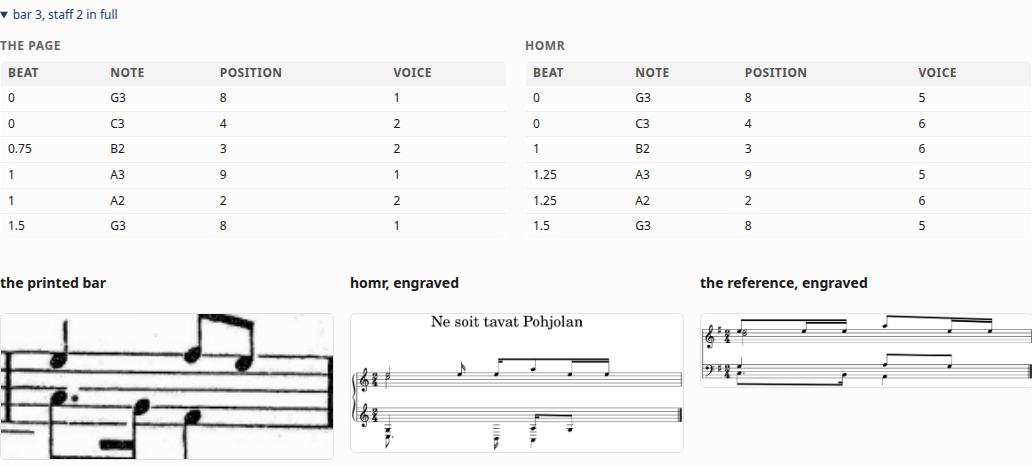
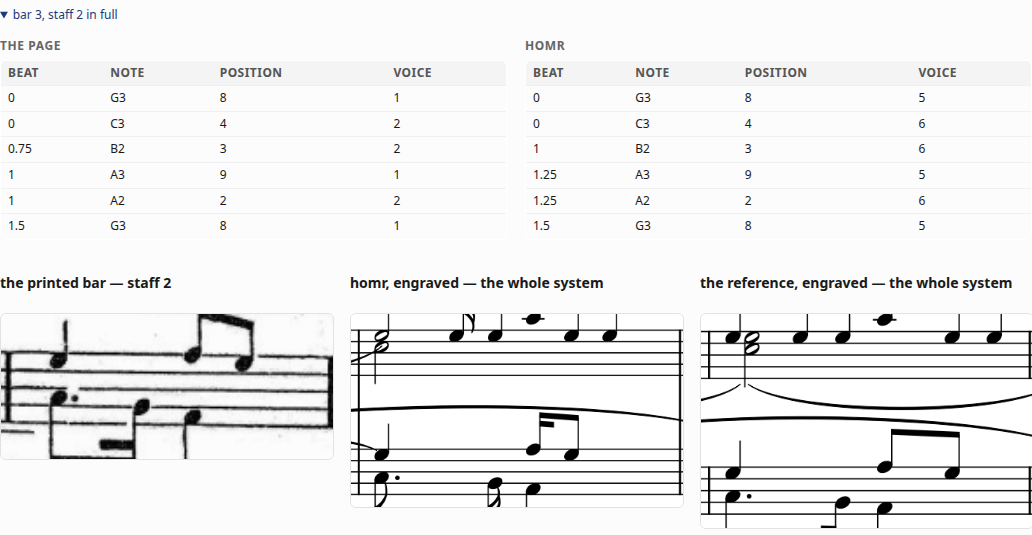
Cut the bar out of the engraving instead of engraving it again
The two engraved panels under a fault were fresh per-bar engravings, and
they looked like different music from the system at the top of the page: a
bar drawn on its own gets a title, a fresh layout, and a clef and key it does
not carry in context.

MuseScore will simply say where it drew each bar. `-o <file>.mpos` writes a
box per measure beside the render, so the bar can be cut out of the picture
the score already makes. The coordinates are absolute page units with the
origin at the page corner, and pixels = units * dpi / MPOS_UNITS_PER_INCH
converts them. That constant is measured rather than derived — two different
scores at 220 and 150 dpi, the crop landing on the barlines at both edges
each time — and being a rate per inch it does not assume the paper size. The
page is rendered untrimmed, because -T crops to the ink and moves the very
origin the boxes are measured from.

It is also less work: one render and one .mpos per side per case, rather
than an engraving per fault.

A measure box covers the whole system, so those two show the bar across
every staff while the printed crop shows the staff the fault is on, and the
labels now say so. Cropping the printed one to the system as well was tried
and is worse on real scans: choral staves are spaced apart to leave room for
the words, so on hanget-soi the crop came out three times the height of the
engravings beside it and half of it was white paper and a line of lyrics.
[…]

diff --git a/fixturecheck/bars.py b/fixturecheck/bars.py
@@ -213,7 +213,14 @@ def bar_box(geo: dict, staff: int, index: int, expected_bars: int) -> dict | Non
         return None
     left, right = lines[index - 1], lines[index]
     row = staves[staff - 1]
-    # A little air, so the crop is a bar of music and not a slice through it.
+    # **The staff the fault is on, not the whole system.** Taking the union of
+    # the staves was tried and is worse on real scans: printed choral staves are
+    # spaced apart to leave room for the words between them, so on `hanget-soi`
+    # the system spans 60% of the band and the crop came out three times the
+    # height of the engravings beside it, half of it white paper and a line of
+    # lyrics. The engraved crops show the system because MuseScore reports one
+    # box per measure and that is what it gives; the labels say which is which,
+    # and the tables above have already isolated the staff.
     pad = 0.35 * (row["bottom"] - row["top"])
     return {"left": max(0.0, left - 0.004), "right": min(1.0, right + 0.004),
             "top": max(0.0, row["top"] - pad), "bottom": min(1.0, row["bottom"] + pad)}
@@ -232,6 +239,13 @@ def crop(image: Path, box: dict, into: Path) -> Path | None:
                                 int(box["right"] * width), int(box["bottom"] * height)))
             if not cut.width or not cut.height:
                 return None
+            if cut.mode in ("RGBA", "LA", "P"):
+                # MuseScore writes transparent paper. Left alone, the crop takes
+                # the page's colour rather than the white the pictures beside it
+                # are on, and the same bar looks like two different prints.
+                cut = cut.convert("RGBA")
+                paper = Image.new("RGBA", cut.size, (255, 255, 255, 255))
+                cut = Image.alpha_composite(paper, cut).convert("RGB")
             into.parent.mkdir(parents=True, exist_ok=True)
             cut.save(into)
     except Exception:                                        # noqa: BLE001
@@ -239,16 +253,79 @@ def crop(image: Path, box: dict, into: Path) -> Path | None:
     return into
 
 
-def engrave_bar(source: Path, bar: str, scratch: Path, into: Path,
-                cli: str, dpi: int = 220) -> Path | None:
-    """One bar of one score, drawn."""
-    fragment = one_bar(source, bar, scratch)
-    if fragment is None:
+# --- where the bar is in an engraving ------------------------------------
+
+#: `.mpos` coordinates are absolute page units with the origin at the page
+#: corner, and this converts them to pixels at a given resolution:
+#:
+#:     pixels = units * dpi / MPOS_UNITS_PER_INCH
+#:
+#: Measured rather than derived, and checked before it was relied on: two
+#: different scores at 220 and 150 dpi, with the crop landing on the barlines at
+#: both edges each time (`test_fixturecheck_bars`). Being a rate per inch rather
+#: than a page width, it does not assume the paper size.
+MPOS_UNITS_PER_INCH = 2649.2
+
+
+def engraved(source: Path, cli: str, into: Path, dpi: int = 220
+             ) -> tuple[Path, list[dict]] | None:
+    """Draw a score once, and ask MuseScore where each bar of it landed.
+
+    Two outputs from two calls, and the second is the point: `-o <file>.mpos`
+    writes a box per measure, so a bar can be **cut out of the picture the score
+    already makes** instead of being engraved again on its own. Re-engraving one
+    bar gives it a title, a fresh layout and a clef and key it does not have in
+    context, so the detail looked like different music from the system above it.
+
+    The page is rendered **untrimmed**: `-T` crops to the ink and moves the
+    origin, which is exactly what the measure boxes are measured from.
+    """
+    into.parent.mkdir(parents=True, exist_ok=True)
+    positions = into.with_suffix(".mpos")
+    for target in (into, positions):
+        run = subprocess.run([cli, "-r", str(dpi), str(source), "-o", str(target)],
+                             capture_output=True, text=True, timeout=600)
+        if run.returncode != 0:
+            return None
+    page = into.with_name(f"{into.stem}-1.png")
+    if page.exists():
+        page.replace(into)
+    if not into.exists() or not positions.exists():
         return None
-    run = subprocess.run([cli, "-T", "10", "-r", str(dpi), str(fragment),
-                          "-o", str(into)],
-                         capture_output=True, text=True, timeout=600)
-    numbered = into.with_name(f"{into.stem}-1.png")
-    if numbered.exists():
-        numbered.replace(into)
-    return into if run.returncode == 0 and into.exists() else None
+    try:
+        boxes = [
+            {"x": float(e.get("x", 0)), "y": float(e.get("y", 0)),
+             "sx": float(e.get("sx", 0)), "sy": float(e.get("sy", 0)),
+             "page": int(e.get("page", 0))}
+            for e in ET.parse(positions).getroot().findall("elements/element")]
+    except (ET.ParseError, ValueError):
+        return None
+    return into, boxes
+
+
+def engraved_box(boxes: list[dict], numbers: list[str], bar: str,
+                 size: tuple[int, int], dpi: int = 220) -> dict | None:
+    """The box around one bar of an engraving, as fractions of the picture.
+
+    Refused when the boxes and the score disagree about how many bars there are,
+    when the bar is on a page other than the first, or when the box falls
+    outside the picture — each of which would put a crop of the wrong music
+    under a finding, which is the one thing this must not do.
+    """
+    if len(boxes) != len(numbers) or bar not in numbers:
+        return None
+    box = boxes[numbers.index(bar)]
+    if box["page"] != 0:
+        return None
+    width, height = size
+    scale = dpi / MPOS_UNITS_PER_INCH
+    # A little air, so the crop is a bar of music and not a slice through it.
+    pad_x, pad_y = 8, 0.09 * box["sy"] * scale
+    left = box["x"] * scale - pad_x
+    right = (box["x"] + box["sx"]) * scale + pad_x
+    top = box["y"] * scale - pad_y
+    bottom = (box["y"] + box["sy"]) * scale + pad_y
+    if right > width + pad_x or bottom > height + pad_y or right <= left:
+        return None
+    return {"left": max(0.0, left / width), "right": min(1.0, right / width),
+            "top": max(0.0, top / height), "bottom": min(1.0, bottom / height)}

diff --git a/fixturecheck/report.py b/fixturecheck/report.py
@@ -196,21 +196,61 @@ def _bar_pictures(case, parsed: Path, row) -> str:
 
     printed, why = _printed_crop(case, row, stem)
     if printed:
-        parts.append(f"<div><h4>the printed bar</h4><img src='{printed}' "
+        parts.append(f"<div><h4>the printed bar &mdash; staff {row.staff}</h4><img src='{printed}' "
                      f"alt='bar {html.escape(row.bar)} as printed'></div>")
     else:
-        parts.append(f"<div><h4>the printed bar</h4><p class='lead'>{html.escape(why)}"
+        parts.append(f"<div><h4>the printed bar &mdash; staff {row.staff}</h4><p class='lead'>{html.escape(why)}"
                      f"</p></div>")
 
-    for label, source, suffix in (("homr, engraved", parsed, "homr"),
-                                  ("the reference, engraved", case.reference, "ref")):
-        drawn = bars.engrave_bar(source, row.bar,
-                                 cases.CACHE / "bars" / f"{stem}-{suffix}.musicxml",
-                                 OUT / f"{stem}-{suffix}.png", cli)
-        if drawn:
-            parts.append(f"<div><h4>{label}</h4><img src='{drawn.name}' "
-                         f"alt='{label}'></div>")
+    for label, source, suffix in (("homr, engraved &mdash; the whole system", parsed, "homr"),
+                                  ("the reference, engraved &mdash; the whole system", case.reference, "ref")):
+        cut, why = _engraved_crop(case, source, row, suffix, stem, cli)
+        if cut:
+            parts.append(f"<div><h4>{label}</h4><img src='{cut}' alt='{label}'></div>")
+        else:
+            parts.append(f"<div><h4>{label}</h4><p class='lead'>"
+                         f"{html.escape(why)}</p></div>")
     return f"<div class='crops'>{''.join(parts)}</div>"
+
+
+#: One render of a score, kept for as long as the report is being written. Each
+#: side is drawn once per case rather than once per fault -- the bar is cut out
+#: of the picture, so the picture is the thing worth keeping.
+_ENGRAVED: dict = {}
+
+
+def _engraved_crop(case, source: Path, row, suffix: str, stem: str,
+                   cli: str) -> tuple[str, str]:
+    """One bar cut out of the score's own engraving, or why it is not shown.
+
+    Cut rather than drawn again. Engraving a single bar on its own gave it a
+    title, a fresh layout, and a clef and key it does not carry in context, so
+    the detail under a fault looked like different music from the system at the
+    top of the page. MuseScore will say where each bar landed (`.mpos`), which
+    makes cutting exact and needs no detection at all.
+    """
+    key = (case.name, suffix)
+    if key not in _ENGRAVED:
+        _ENGRAVED[key] = bars.engraved(source, cli,
+                                       OUT / f"{case.name}-{suffix}-page.png")
+    drawn = _ENGRAVED[key]
+    if not drawn:
+        return "", "MuseScore could not draw this score, so there is no bar to cut out."
+    page, boxes = drawn
+    numbers = bars.bars_in(source)
+    try:
+        from PIL import Image
+        with Image.open(page) as picture:
+            size = picture.size
+    except Exception:                                        # noqa: BLE001
+        return "", "the engraving could not be read."
+    box = bars.engraved_box(boxes, numbers, row.bar, size)
+    if not box:
+        return "", (f"MuseScore reported {len(boxes)} bar position(s) for "
+                    f"{len(numbers)} bar(s) here, so which box is this bar is a "
+                    f"guess.")
+    cut = bars.crop(page, box, OUT / f"{stem}-{suffix}.png")
+    return (cut.name, "") if cut else ("", "the crop could not be written.")
 
 
 def _printed_crop(case, row, stem: str) -> tuple[str, str]:

diff --git a/tests/test_fixturecheck_bars.py b/tests/test_fixturecheck_bars.py
@@ -120,6 +120,41 @@ def test_a_bar_or_staff_out_of_range_is_refused():
     assert bars.bar_box(geo, 1, 0, 3) is None
 
 
+def _mpos(count, width=3000.0, y=4650.79, sy=2637.07, page=0):
+    return [{"x": 1000.0 + i * width, "y": y, "sx": width, "sy": sy, "page": page}
+            for i in range(count)]
+
+
+def test_musescore_says_where_a_bar_is_and_it_is_cut_out_by_that():
+    """The mapping, pinned. Measured on two scores at 220 and 150 dpi, with the
+    crop landing on the barlines both times; see `bars.MPOS_UNITS_PER_INCH`."""
+    boxes = _mpos(3)
+    box = bars.engraved_box(boxes, ["1", "2", "3"], "2", (1819, 2572), dpi=220)
+    assert box is not None
+    scale = 220 / bars.MPOS_UNITS_PER_INCH
+    # The second bar starts at 4000 units and is 3000 wide.
+    assert abs(box["left"] * 1819 - (4000 * scale - 8)) < 1.0
+    assert abs(box["right"] * 1819 - (7000 * scale + 8)) < 1.0
+    assert 0.0 <= box["top"] < box["bottom"] <= 1.0
+
+
+def test_a_bar_count_that_disagrees_is_refused():
+    """MuseScore's boxes and the score have to be talking about the same bars."""
+    assert bars.engraved_box(_mpos(3), ["1", "2"], "2", (1819, 2572)) is None
+    assert bars.engraved_box(_mpos(2), ["1", "2"], "9", (1819, 2572)) is None
+
+
+def test_a_bar_on_a_later_page_is_refused():
+    """The render kept is page one; a box on page two would crop the wrong paper."""
+    assert bars.engraved_box(_mpos(2, page=1), ["1", "2"], "1", (1819, 2572)) is None
+
+
+def test_a_box_that_falls_outside_the_picture_is_refused():
+    """Which is what a wrong resolution or paper size looks like from here."""
+    wide = [{"x": 1000.0, "y": 100.0, "sx": 90000.0, "sy": 2637.07, "page": 0}]
+    assert bars.engraved_box(wide, ["1"], "1", (1819, 2572)) is None
+
+
 def test_a_row_knows_which_bar_it_is_about():
     """The report opens the bar named here; re-parsing `where` would be a second
     definition of the same fact."""

diff --git a/fixturecheck/README.md b/fixturecheck/README.md
@@ -71,13 +71,38 @@ agree — into that bar and staff in full:
   the question at a glance: the same six notes at the same positions, at beats
   `0 0 0.75 1 1 1.5` on the page and `0 0 1 1.25 1.25 1.5` in homr's reading. A
   duration read differently, and nothing lost.
-- **The same bar as pictures**: the printed crop, that bar engraved from homr's
-  parse, and that bar engraved from the reference. The printed one is the one
-  that matters, because on this repertoire it has settled every disagreement
-  that anybody checked.
+- **The same bar as pictures**: the printed crop, and that bar in homr's
+  engraving and in the reference's. The printed one is the one that matters,
+  because on this repertoire it has settled every disagreement that anybody
+  checked.
 
-Cutting a bar out of a MusicXML file is reliable. Finding it in a photograph is
-not: it needs the barlines, which come from **homr's own detection**
+**The engraved pair are cut out of the score's own render, not drawn again.**
+Engraving a single bar on its own gives it a title, a fresh layout, and a clef
+and key it does not carry in context, so the detail looked like different music
+from the system at the top of the page. MuseScore will simply say where each bar
+landed:
+
+    MuseScore3 -r 220 score.musicxml -o score.mpos    # a box per measure
+
+Those are absolute page units with the origin at the page corner, and
+`pixels = units * dpi / MPOS_UNITS_PER_INCH` converts them. The constant is
+measured rather than derived — two scores at 220 and 150 dpi, the crop landing
+on the barlines at both edges each time — and it is a rate per inch, so it does
+not assume the paper size. The page is rendered **untrimmed**, because `-T`
+crops to the ink and moves the origin the boxes are measured from. It is also
+fewer MuseScore calls: one render and one `.mpos` per side per case, rather than
+an engraving per fault.
+
+A measure box covers the whole system, so those two show the bar across every
+staff, while the printed crop shows the staff the fault is on. The labels say
+so. Cropping the printed one to the system too was tried and is worse on real
+scans: choral staves are spaced apart to leave room for the words, so the crop
+came out three times the height of the engravings beside it, half of it white
+paper.
+
+Cutting a bar out of a MusicXML file is reliable, and so is asking MuseScore
+where it drew one. Finding a bar in a photograph is not: it needs the barlines,
+which come from **homr's own detection**
 (`bars.geometry`, the same segmentation pass `scripts/homr_staves.py` uses in
 the choir app, cached per case). The lines have to cut the system into exactly
 the bars the reference says it holds, and a system's *opening* rule is normally

diff --git a/QUALITY.md b/QUALITY.md
@@ -6,7 +6,7 @@ Regenerated from `fixturecheck/series.jsonl` on every run — do not edit by han
 
 | harness | measured | homr | references | of everything judged, right | cases |
 | --- | --- | --- | --- | --- | --- |
-| `fixturecheck` | 2026-09-05T04:55:46+00:00 (one) | `71e6819` | `ff33f48a1bcaac77` | **95.8%** | 5 read |
+| `fixturecheck` | 2026-09-05T05:13:38+00:00 (one) | `71e6819` | `ff33f48a1bcaac77` | **95.8%** | 5 read |
 | `choir-bench` | _never_ | — | — | — | — |
 
 **[Look at the music](https://bazzite.taile8d16e.ts.net:8124/index.html)** — the printed band, homr's engraving and the reference, system by system. A count can say a system agrees on staves, bars and noteheads and still not say whether the parse is the music.
@@ -15,7 +15,7 @@ The two are **not averaged**. `fixturecheck` scores notes across the printed sys
 
 ## The gate
 
-**FAIL** — 3/5 perfect as of 2026-09-05T04:55:46+00:00; below 100%: `hanget-soi`, `sammon-ryosto`.
+**FAIL** — 3/5 perfect as of 2026-09-05T05:13:38+00:00; below 100%: `hanget-soi`, `sammon-ryosto`.
 
 The five committed fixtures are small single systems this repository owns outright, and they are expected to be **perfect**. Anything less is a failure of the run, not a row in a table.
 
@@ -29,6 +29,11 @@ The five committed fixtures are small single systems this repository owns outrig
 | 2026-09-05T04:52:57+00:00 | `fixturecheck` | one | `71e6819` | `ff33f48a1bcaac77` | 85.3% |
 | 2026-09-05T04:54:04+00:00 | `fixturecheck` | one | `71e6819` | `ff33f48a1bcaac77` | 85.3% |
 | 2026-09-05T04:55:46+00:00 | `fixturecheck` | one | `71e6819` | `ff33f48a1bcaac77` | 95.8% |
+| 2026-09-05T05:09:40+00:00 | `fixturecheck` | one | `71e6819` | `ff33f48a1bcaac77` | 85.3% |
+| 2026-09-05T05:10:36+00:00 | `fixturecheck` | one | `71e6819` | `ff33f48a1bcaac77` | 85.3% |
+| 2026-09-05T05:10:48+00:00 | `fixturecheck` | one | `71e6819` | `ff33f48a1bcaac77` | 85.3% |
+| 2026-09-05T05:12:15+00:00 | `fixturecheck` | one | `71e6819` | `ff33f48a1bcaac77` | 85.3% |
+| 2026-09-05T05:13:38+00:00 | `fixturecheck` | one | `71e6819` | `ff33f48a1bcaac77` | 95.8% |
 
 A tier is not a sample of the one above it — a ten-case run and a full sweep are different populations, so read a percentage against runs of the same tier.
 
